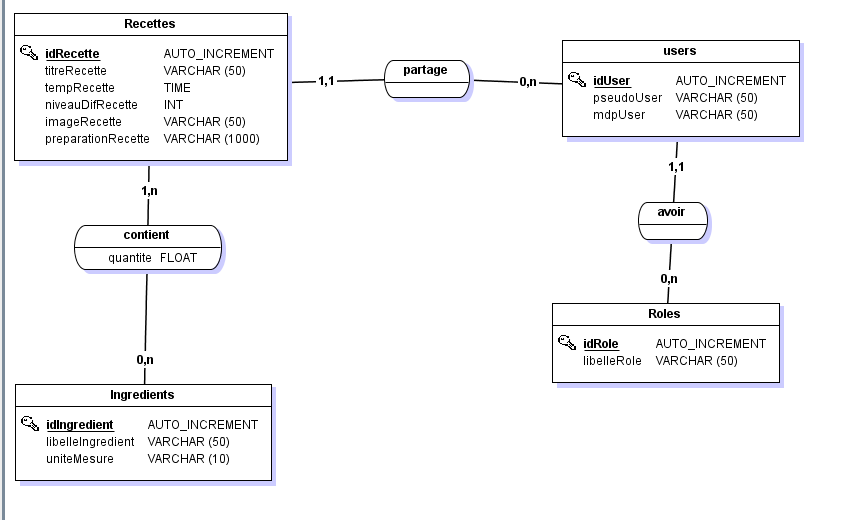
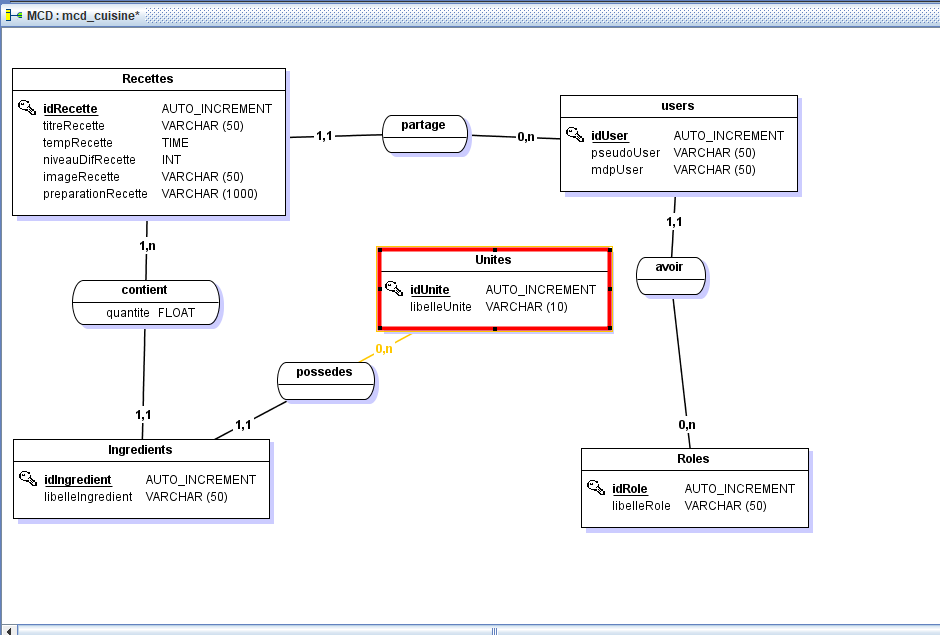
ok

diff --git a/cramTout/sql/MODEL/UnitesManager.Class.php b/cramTout/sql/MODEL/UnitesManager.Class.php
@@ -1,0 +1,54 @@
+<?php
+class UnitesManager{
+//******************************** select ****************************
+public static function add(Unites $cl){
+$db=DbConnect::getDb();
+$requete = $db->prepare("INSERT INTO Unites(libelleUnite)VALUES (:libelleUnite)");
+$requete->bindValue(':libelleUnite',$cl->getLibelleUnite());
+$res = $requete->execute();
+}
+//******************************** UPDATE ****************************
+public static function UPDATE(Unites $cl){
+$db=DbConnect::getDb();
+$requete = $db->prepare("UPDATE Unites SET idUnite=:idUnite,libelleUnite=:libelleUnite WHERE idUnite=:idUnite");
+
+$requete->bindValue(':idUnite',$cl->getIdUnite());
+$requete->bindValue(':libelleUnite',$cl->getLibelleUnite());
+$res = $requete->execute();
+}
+//******************************** DELETE ****************************
+ public static function delete(Unites $cl)
+        {
+            $db=DbConnect::getDb();
+            $db->exec('DELETE FROM Unites WHERE idUnite=' .$cl->getIdUnite());
+}
+//******************************** FINDBYID ****************************
+ public static function findById($id)
+        {
+            $db=DbConnect::getDb();
+            $id=(int)$id;
+            $requete = $db->query('SELECT * FROM Unites WHERE idUnite =' .$id);
+            $resultat = $requete->fetch(PDO::FETCH_ASSOC);
+            if ($resultat!=false)
+            {
+                return new Unites($resultat);
+            }
+            else{
+                return false;
+            }
+        }
+//******************************** GETLISTE ****************************
+ public static function getList()
+        {
+            $db=DbConnect::getDb();
+            $requete = $db->query('SELECT * FROM Unites');
+            while($donnees = $requete->fetch(PDO::FETCH_ASSOC))
+            {
+                if ( $donnees !=false)
+                {
+                    $listeUnites[] = new Unites($donnees);
+                }
+            }
+            return $listeUnites;
+        }
+    }

diff --git a/cramTout/sql/MODEL/IngredientsManager.Class.php b/cramTout/sql/MODEL/IngredientsManager.Class.php
@@ -3,19 +3,23 @@ class IngredientsManager{
 //******************************** select ****************************
 public static function add(Ingredients $cl){
 $db=DbConnect::getDb();
-$requete = $db->prepare("INSERT INTO Ingredients(libelleIngredient,uniteMesure)VALUES (:libelleIngredient,:uniteMesure)");
+$requete = $db->prepare("INSERT INTO Ingredients(libelleIngredient,quantite,idRecette,idUnite)VALUES (:libelleIngredient,:quantite,:idRecette,:idUnite)");
 $requete->bindValue(':libelleIngredient',$cl->getLibelleIngredient());
-$requete->bindValue(':uniteMesure',$cl->getUniteMesure());
+$requete->bindValue(':quantite',$cl->getQuantite());
+$requete->bindValue(':idRecette',$cl->getIdRecette());
+$requete->bindValue(':idUnite',$cl->getIdUnite());
 $res = $requete->execute();
 }
 //******************************** UPDATE ****************************
 public static function UPDATE(Ingredients $cl){
 $db=DbConnect::getDb();
-$requete = $db->prepare("UPDATE Ingredients SET idIngredient=:idIngredient,libelleIngredient=:libelleIngredient,uniteMesure=:uniteMesure WHERE idIngredient=:idIngredient");
+$requete = $db->prepare("UPDATE Ingredients SET idIngredient=:idIngredient,libelleIngredient=:libelleIngredient,quantite=:quantite,idRecette=:idRecette,idUnite=:idUnite WHERE idIngredient=:idIngredient");
 
 $requete->bindValue(':idIngredient',$cl->getIdIngredient());
 $requete->bindValue(':libelleIngredient',$cl->getLibelleIngredient());
-$requete->bindValue(':uniteMesure',$cl->getUniteMesure());
+$requete->bindValue(':quantite',$cl->getQuantite());
+$requete->bindValue(':idRecette',$cl->getIdRecette());
+$requete->bindValue(':idUnite',$cl->getIdUnite());
 $res = $requete->execute();
 }
 //******************************** DELETE ****************************

diff --git a/cramTout/sql/CONTROLEUR/Ingredients.Class.php b/cramTout/sql/CONTROLEUR/Ingredients.Class.php
@@ -2,7 +2,9 @@
 class Ingredients{
  private $_idIngredient;
  private $_libelleIngredient;
- private $_uniteMesure;
+ private $_quantite;
+ private $_idRecette;
+ private $_idUnite;
       /* ****************Accesseurs***************** */
 public function getIdIngredient(){ 
  return $this->_idIngredient;
@@ -16,11 +18,23 @@ public function getLibelleIngredient(){
 public function setLibelleIngredient($libelleIngredient){ 
 $this->_libelleIngredient =$libelleIngredient;
 }
-public function getUniteMesure(){ 
- return $this->_uniteMesure;
+public function getQuantite(){ 
+ return $this->_quantite;
 }
-public function setUniteMesure($uniteMesure){ 
-$this->_uniteMesure =$uniteMesure;
+public function setQuantite($quantite){ 
+$this->_quantite =$quantite;
+}
+public function getIdRecette(){ 
+ return $this->_idRecette;
+}
+public function setIdRecette($idRecette){ 
+$this->_idRecette =$idRecette;
+}
+public function getIdUnite(){ 
+ return $this->_idUnite;
+}
+public function setIdUnite($idUnite){ 
+$this->_idUnite =$idUnite;
 }
   /* ****************Constructeur***************** */
 public function __construct(array $options = []){
